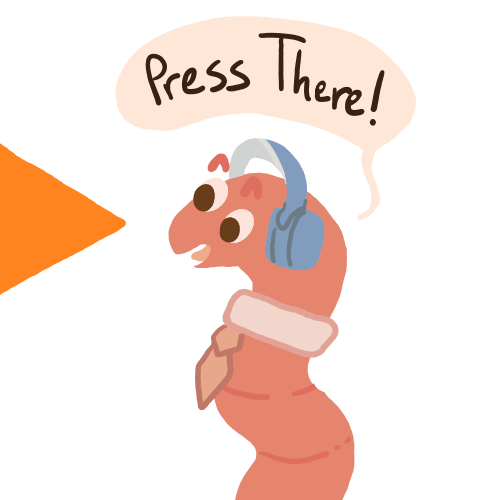
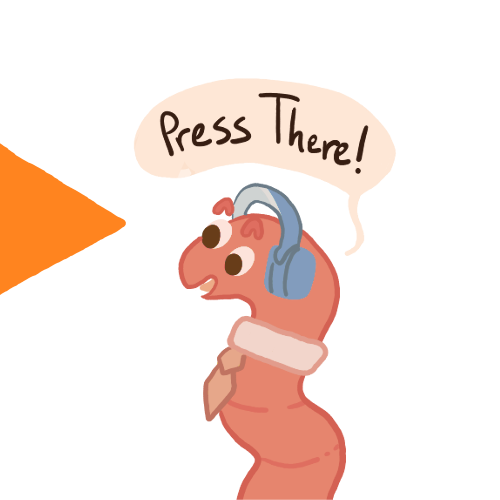
added space bun

Changed region(s): [[0.21, 0.03, 0.84, 1.0]]

diff --git a/src/pages/home/HomePage.tsx b/src/pages/home/HomePage.tsx
@@ -29,10 +29,7 @@ export function HomePage ({setBlurPage, setCurrentPage, blurPage}: HomePageProps
                                         <SwitchPage setCurrentPage={setCurrentPage} currentPage={1} variant={"primary"} type={"button"} blurPage={blurPage} setBlurPage={setBlurPage}/*Basic Question Button*/></SwitchPage>
                                     </Col>
                                     
-                                    <Col className= "box magilio" style= {{backgroundColor: "#ffa74ab3",color:"#f9e0d1", height: "101%"}}>
-                                        <h1>10</h1>
-                                        <h2>Basic Questions</h2>
-                                        <h3><i className="arrow left"></i><i className="arrow left"></i></h3>
+                                    <Col className= "orangeBun box magilio" style= {{backgroundColor: "#ffa13dba",color:"#f9e0d1", height: "101%"}}>
                                          
                                     </Col>
                                 </Row>

diff --git a/src/pages/home/HomePage.css b/src/pages/home/HomePage.css
@@ -20,7 +20,7 @@
   flex-direction: column;
   align-items: center;
   justify-content: center;
-  background: salmon;
+  background: #fa8072;
   transition: background-color 1s ease-out 2ms;
 
 }
@@ -114,8 +114,14 @@
     background-color: #ffb74a;
   }
   .orange2 {
-    background-color: #ffa74ab3;
-    background-image: url("../../assets/images/careerWorm.png") ;
+    background-color: #ffa13dba;
+    background-image: url("../../assets/images/careerWorm.png");
+    background-size: cover;
+  }
+
+  .orangeBun {
+    background-color: #ffa13dba;
+    background-image: url("../../assets/images/careerBun.png");
     background-size: cover;
   }
 
